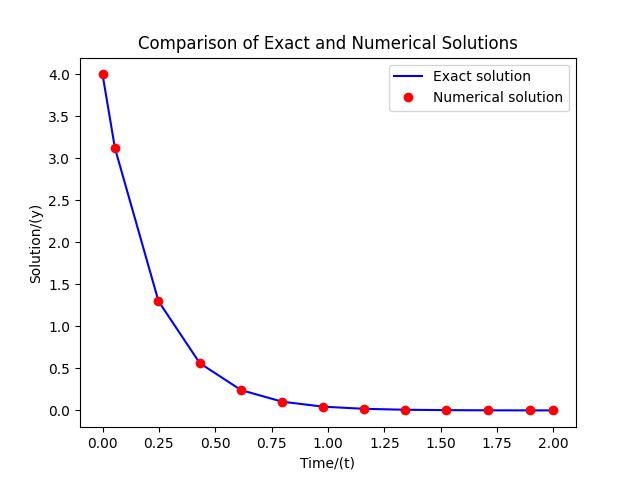
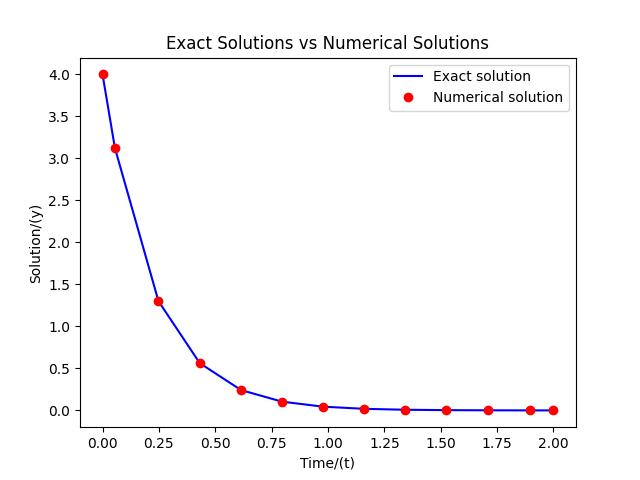
tasks finished, check before submission

Changed region(s): [[0.2188, 0.0625, 0.8125, 0.125]]

diff --git a/call_ass5.py b/call_ass5.py
@@ -8,7 +8,26 @@ x = 1 + 2**-29
 y = 1 + 2**-30
 difference_squares(x, y)
 
-# a, b, c) Comments:
+"""
+a) Comment on how much the two values calculated for the difference of two squares differ
+
+The values differ very slightly:
+z1 = 0.00000000186264514923095703125000
+z2 = 0.00000000186264515183304224521521. The difference is approximately 2.6020852 x 10^-18
+
+b) Identify two reasons why they differ, providing a brief explanation of each reason and how it applies in this context
+
+Firstly, Floating-Point Precision Limits - The numbers x = 1 + 2^-29 and y = 1 + 2^-30 are very close together.
+Squaring these values involves operations beyond the precision limit of the float representation, mainly when it
+comes towards the less significant bits. 
+Secondly, Numerical Stability of the Formula - The first form, x^2 - y^2, is less numerically stable when x and y 
+are close in value. This is because of potential cancellation error. The second form, (x - y)(x + y), is 
+mathematically the same, but can reduce numerical error in these situations.
+    
+c) Explain which result you think is more accurate
+
+The second one where z2 = (x - y)(x + y) is more accurate in the scenario due to its numerical stability
+"""
 
 # -------------------------------------------------------------------
 # Code and comments for Task 1.4: numerical error in relative_error_subtraction goes here
@@ -19,9 +38,21 @@ z_exact = -1e-15
 
 relative_error_subtraction(x, y, z_exact)
 
-# a) What is the relative error in z?
+"""
+a) What is the relative error in z?
 
-# b) What causes the relative error?
+The relative error is: 0.1118215802998748
+
+b) What causes the relative error?
+
+Firstly, Catastrophic Cancellation - subtracting two very similar floating-point numbers (x and y) causes most 
+significant digits to cancel out. Leading to a large relative error because the small difference is computed from
+imprecise representations.
+
+Secondly, Floating-Point Representation Limits - Python uses IEEE 754 double precision, which has a limit to how 
+precisely it can represent numbers Because x and y differ by only 1e-15 (which is very close to epsilon), 
+their individual representations already include round-off error, reducing overall accuracy
+"""
 
 # -------------------------------------------------------------------
 # Code for Task 2.4: numerically solving the ODE goes here
@@ -33,26 +64,24 @@ y_initial = [4]
 solution = solve_ivp(derivative_ode1, t_span, y_initial)
 
 # Time values from solver
-t_values = solution.t
+time_values = solution.t
 # Approximate solution
 y_numerical = solution.y[0]
 
-#b) Exact solution at same time points
-y_exact = exact_solution_ode1(t_values)
+# Exact solution at same time points
+y_exact = exact_solution_ode1(time_values)
 
-#c) Plot exact and numerical solutions
+#Plot exact and numerical solutions
 plt.figure()
     #blue lines for Exact solution
-plt.plot(t_values, y_exact, 'b-', label='Exact solution')
+plt.plot(time_values, y_exact, 'b-', label='Exact solution')
     # Red circles for numerical solution
-plt.plot(t_values, y_numerical, 'ro', label='Numerical solution')
+plt.plot(time_values, y_numerical, 'ro', label='Numerical solution')
     # Graph Title and Labels
-plt.title('Comparison of Exact and Numerical Solutions')
+plt.title('Exact Solutions vs Numerical Solutions')
 plt.xlabel('Time/(t)')
 plt.ylabel('Solution/(y)')
 plt.legend()
-
-# d) Save the figure
 plt.savefig("ode1ComparisonPlot.jpg")
 plt.close()
 
@@ -60,15 +89,30 @@ plt.close()
 # Code and comments for Task 2.6: investigating the MAE goes here
 
 mae = mean_absolute_error(y_exact, y_numerical)
+
 print(f"Mean Absolute Error = {mae:.4f}")
 
-# a) What is the value of MAE when solving the given ODE?
+"""
+a) What is the value of MAE when solving the given ODE?
 
-# b) Based on this and a visual comparison of the exact and approximate solutions,
-# comment on how accurate this solution is.
+MAE = 0.0002 (4 d.p.)
 
-# c) Note that the calculation of MAE may itself be subject to numerical error.
-# Briefly comment on two ways that numerical error may be incurred.
+b) Based on this and a visual comparison of the exact and approximate solutions, comment on on the solution accuracy
+
+The numerical solution - red -  closely follows the exact solution - blue - across the interval [0, 2].
+This suggests that the numerical method (`solve_ivp`) produces a very accurate result with minimal deviation.
+
+cc) Note that the calculation of MAE may itself be subject to numerical error.
+Briefly comment on two ways that numerical error may be incurred.
+
+Firstly, Catastrophic Cancellation – when the exact and numerical solutions are very close in value, 
+subtracting them (as in |y_exact - y_approx|) can lead to loss of significant digits. This causes a larger numerical 
+error in the computed difference, which adds up when calculating the MAE.
+
+Secondly, Floating-Point Representation Limits – both y_exact and y_approx are stored in double-precision floating-point
+format (IEEE 754), which cannot exactly represent many decimal numbers. These roundoff errors can affect into the MAE 
+calculation, even if both inputs are accurate to complete precision.
+"""
 
 # set Butcher tableau for Euler method
 alpha_euler = np.array([1.])
@@ -78,14 +122,11 @@ gamma_euler = np.array([[0.]])
 # --------------------------------------------------------------------------------------------------------------
 # Code and comments for Task 3.3 Investigating RK numerical error goes here
 
-# --------------------------------------------------------------------------------------------------------------
-# Task 3.3: Solving an ODE using different RK methods and varying step sizes
-
 # Step sizes to investigate
 step_sizes = [0.01, 0.025, 0.05, 0.1, 0.2, 0.25]
 
-# Define Butcher Tableaux for each method
-rk_tableaux = {
+# Define Butcher Tableau for each method
+rk_tableau = {
     "Euler": (
         np.array([1.]),
         np.array([0.]),
@@ -93,26 +134,20 @@ rk_tableaux = {
     "Improved": (
         np.array([0.5, 0.5]),
         np.array([0., 1.]),
-        np.array([
-            [0., 0.],
-            [1., 0.]])),
+        np.array([[0., 0.], [1., 0.]])),
     "RK4": (
         np.array([1/6, 1/3, 1/3, 1/6]),
         np.array([0., 0.5, 0.5, 1.]),
-        np.array([
-            [0., 0., 0., 0.],
-            [0.5, 0., 0., 0.],
-            [0., 0.5, 0., 0.],
-            [0., 0., 1., 0.]]))}
+        np.array([ [0., 0., 0., 0.], [0.5, 0., 0., 0.], [0., 0.5, 0., 0.], [0., 0., 1., 0.]]))}
 
 # Initialise empty lists for storing MAE results
-mae_results = {method: [] for method in rk_tableaux.keys()}
+mae_results = {method: [] for method in rk_tableau.keys()}
 
 # Loop over each step size and each method
 for h in step_sizes:
-    for method_name, (alpha, beta, gamma) in rk_tableaux.items():
-        t_values, y_approx = explicit_rk_solver(derivative_ode1, [0, 2], 4, h, alpha, beta, gamma)
-        y_exact = exact_solution_ode1(np.array(t_values))
+    for method_name, (alpha, beta, gamma) in rk_tableau.items():
+        time_values, y_approx = explicit_rk_solver(derivative_ode1, [0, 2], 4, h, alpha, beta, gamma)
+        y_exact = exact_solution_ode1(np.array(time_values))
         mae = mean_absolute_error(y_exact, np.array(y_approx))
         mae_results[method_name].append(mae)
 
@@ -130,21 +165,38 @@ for i, h in enumerate(step_sizes):
 # Plot MAE vs step size for all three methods
 plt.figure()
 
-# Plotting each method
+# Plotting each of the 3 methods
 plt.plot(step_sizes, mae_results["Euler"], 'b' 'o-', label="Euler")
 plt.plot(step_sizes, mae_results["Improved"], 'r' 'o-', label="Improved Euler")
 plt.plot(step_sizes, mae_results["RK4"], 'g' 'o-', label="Classic RK4")
 
-# Axis labels and title
-plt.xlabel("Step size (h)")
-plt.ylabel("Mean Absolute Error (MAE)")
-plt.title("MAE vs Step Size for RK Methods")
+# labels and title
+plt.grid(True)
+plt.xlabel("Step size / (h)")
+plt.ylabel("Mean Absolute Error / (MAE)")
+plt.title("MAE vs Step Size (RK Methods)")
 plt.legend()
-# plt.grid(True)
 
 # Save plot to file
 plt.savefig("numericalErrorRKmethods.jpg")
 plt.close()
+
+"""
+b) Estimate from your plot the proportionality relationship between MAE and h for the Euler method. Comment on how 
+this compares to the expected truncation error of the method
+
+From the plot, the MAE for the Euler method increases almost linearly with step size h. Suggesting a proportional 
+relationship between MAE and h, matching the known global truncation error for Euler: O(h). 
+This is expected since Euler is a first-order method.
+
+c) Comment on an advantage and a disadvantage of using the Classic RK4 method over the Euler or Improved Euler methods
+
+    Advantage - high accuracy: the MAE is significantly lower than the Euler and Improved Euler for all step sizes there
+
+    Disadvantage - computationally, it is expensive as it requires 4 derivative evaluations per step vs the 1
+    for Euler and 2 for Improved Euler.
+
+"""
 
 # --------------------------------------------------------------------------------------------------------------
 # Task 3.5: Investigating Numerical Stability in RK Methods
@@ -157,7 +209,7 @@ y0 = 4
 # Solve ODE with each RK method using h = 0.5
 solutions = {}
 
-for method_name, (alpha, beta, gamma) in rk_tableaux.items():
+for method_name, (alpha, beta, gamma) in rk_tableau.items():
     t_vals, y_vals = explicit_rk_solver(derivative_ode1, tspan, y0, h_stability, alpha, beta, gamma)
     solutions[method_name] = (np.array(t_vals), np.array(y_vals))
 
@@ -171,7 +223,7 @@ plt.figure()
 # Exact solution
 plt.plot(t_exact, y_exact, 'k-', label='Exact Solution')
 
-# Numerical methods
+#Numerical methods
 plt.plot(*solutions["Euler"], 'ro-', label="Euler")
 plt.plot(*solutions["Improved"], 'go-', label="Improved Euler")
 plt.plot(*solutions["RK4"], 'bo-', label="Classic RK4")
@@ -181,9 +233,30 @@ plt.title("Stability Comparison with h = 0.5")
 plt.xlabel("Time (t)")
 plt.ylabel("y(t)")
 plt.legend()
-# plt.grid(True)
-
-# Save plot
 plt.savefig("stabilityRKmethods.jpg")
 plt.close()
 
+"""
+b) Comment on the numerical stability of each method. How does this impact
+on the behaviour of the numerical error in each case?
+
+The plot shows that both the Euler method and the Improved Euler method become numerically unstable when using a
+larger step size like h = 0.5. The Euler method oscillates crazily and diverges far from the exact solution, producing
+large positive and negative outputs, which is inconsistent with the expected decaying behaviour of the solution.
+The Improved Euler method also shows instability, with its values growing exponentially instead of decaying. In
+contrast, the Classic RK4 method remains most stable and follows the exact solution right through the entire interval.
+This highlights that low-order explicit methods and are far more sensitive in comparison to the larger step sizes, 
+while higher-order methods like RK4 maintain that stability under the same conditions.
+
+c)  In the context that we are unable to mathematically determine the stability
+condition for a given explicit RK method and ODE, briefly comment on how
+might we determine numerically whether or not the solution is numerically
+stable Hint: you may want to look at the MAE for h = 0.5 in addition to the
+previously evaluated steps.
+
+We can alternatively identify instability numerically. One way is by visually comparing the numerical solution to the 
+predicted behaviour of the exact solution. If the numerical solution changes in any way, such as diverrging, oscillations
+or just even growing when the exact should be steadily decaying, it is an indication oof instability. 
+Another method is to examine the Mean Absolute Error (MAE) for a largre step size. A sudden increase in MAE suggests 
+that numerical instability has occurred, even if the divergence is not as easily from a visual plot.
+"""
